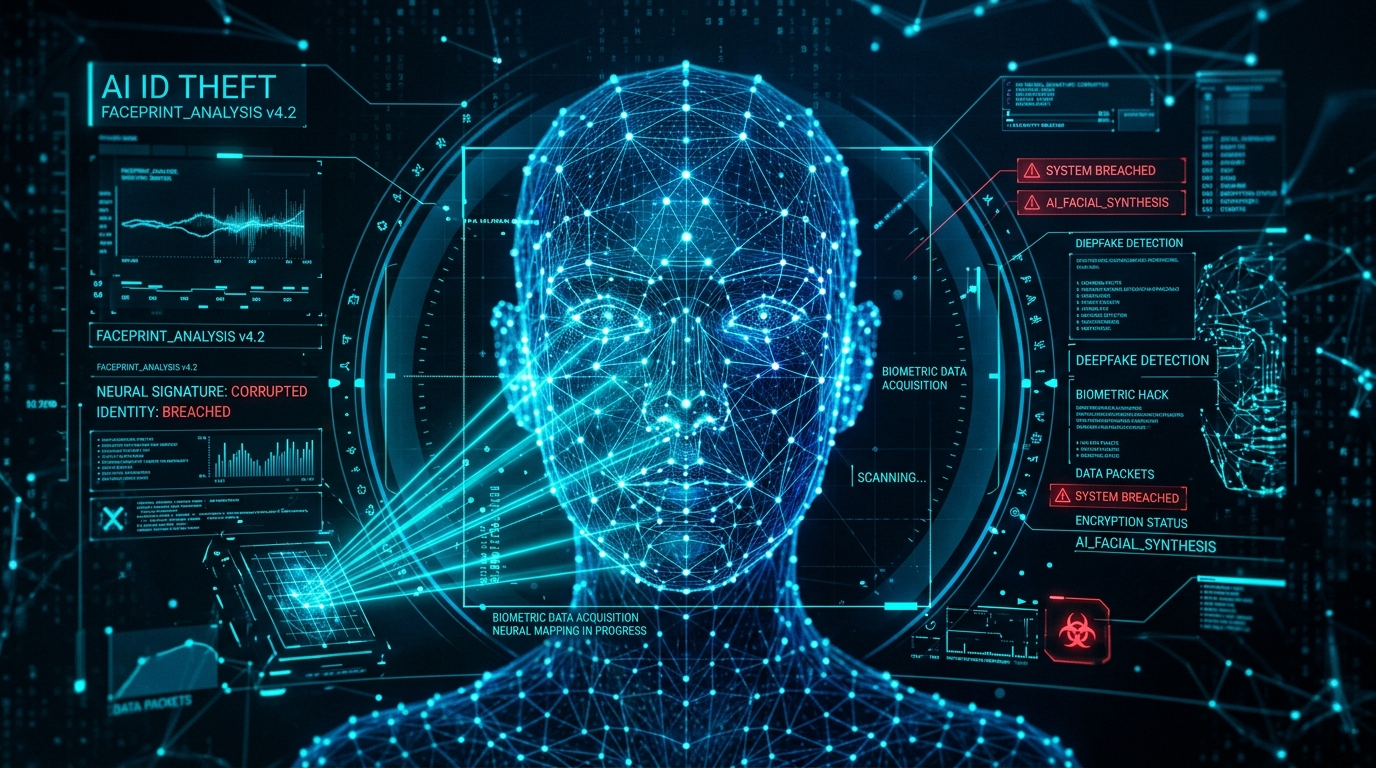
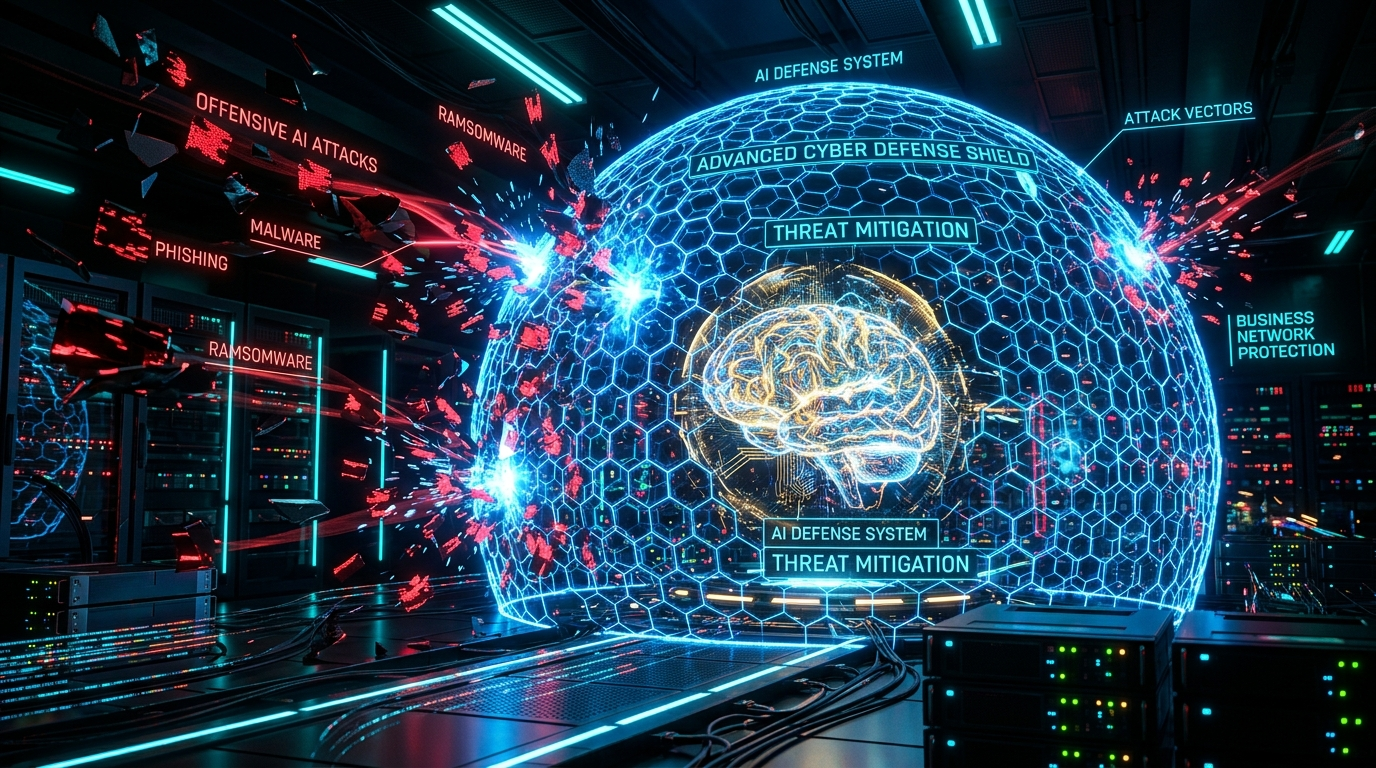
Add images and update deepfake articles
Update front-matter image references in two articles about the Murcia deepfake case and add the corresponding image assets. Files changed: content/blog/2026-08-12-fallo-ia-suplantacion-biometrica-deepfake-murcia.md and content/news/detenido-murcia-suplantacion-ia-firma-electronica.md now reference new images. Added static/images/news-fallo-ia-suplantacion-biometrica-deepfake-murcia.jpg and static/images/news-detenido-murcia-suplantacion-ia-firma-electronica.jpg; replaced static/images/news-ia-ofensiva-confianza-digital-pymes-protegerse.jpg.

diff --git a/content/blog/2026-08-12-fallo-ia-suplantacion-biometrica-deepfake-murcia.md b/content/blog/2026-08-12-fallo-ia-suplantacion-biometrica-deepfake-murcia.md
@@ -5,7 +5,7 @@ slug: "fallo-ia-suplantacion-biometrica-deepfake-murcia"
 description: "Un ciberdelincuente utilizó Inteligencia Artificial en tiempo real para modificar su rostro en videollamadas y obtener certificados digitales a nombre de terceros. Analizamos el ataque y cómo protegerse."
 categories: ["Ciberseguridad", "Inteligencia Artificial", "Casos Reales", "Protección de Datos"]
 keywords: ["deepfake Murcia", "suplantación identidad IA", "videoverificación firma digital", "ciberseguridad pymes", "fraude biológico", "DNIe", "eIDAS"]
-image: "images/news-ia-ofensiva-confianza-digital-pymes-protegerse.jpg"
+image: "images/news-fallo-ia-suplantacion-biometrica-deepfake-murcia.jpg"
 draft: false
 business_impact: "La suplantación de identidad biométrica mediante deepfakes en tiempo real amenaza la validez de los trámites remotos y la emisión de certificados de firma digital, exponiendo a ciudadanos y empresas a contrataciones fraudulentas, préstamos ilegítimos y aperturas de cuentas bancarias sin su conocimiento."
 source_url: "https://elpais.com/espana/2026-08-11/un-fallo-de-la-ia-que-usaba-para-estafar-delata-a-un-ciberdelincuente.html"

diff --git a/content/news/detenido-murcia-suplantacion-ia-firma-electronica.md b/content/news/detenido-murcia-suplantacion-ia-firma-electronica.md
@@ -5,7 +5,7 @@ slug: "detenido-murcia-suplantacion-ia-firma-electronica"
 description: "Un ciberdelincuente alteraba su rostro en tiempo real para engañar a empresas certificadoras. Un fallo de un segundo en la IA reveló su rostro real."
 categories: ["Ciberseguridad", "Casos Reales"]
 keywords: ["detenido Murcia IA", "suplantación firma electrónica", "ciberseguridad pymes", "deepfake fraude"]
-image: "images/news-ia-ofensiva-confianza-digital-pymes-protegerse.jpg"
+image: "images/news-detenido-murcia-suplantacion-ia-firma-electronica.jpg"
 draft: false
 business_impact: "Las empresas de servicios digitales y entidades financieras afrontan un nuevo riesgo con los deepfakes en tiempo real durante videoverificaciones para contratación y firma electrónica."
 ---
